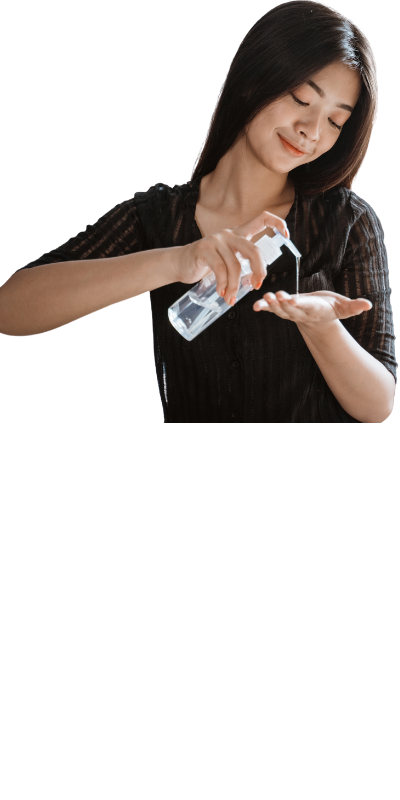
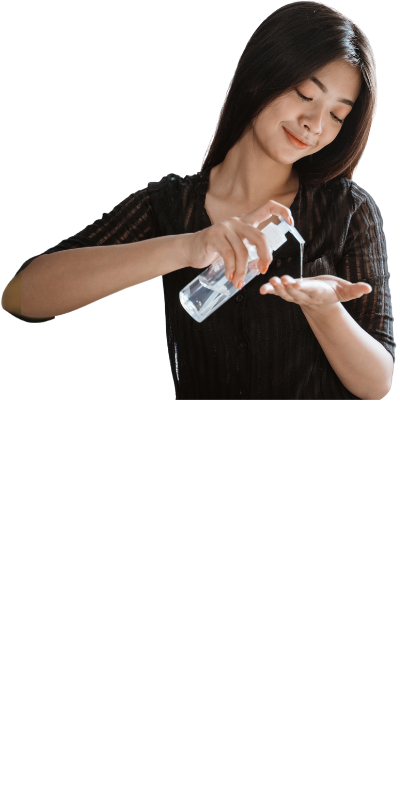
version13

Changed region(s): [[0.0, 0.0, 1.0, 0.5312], [0.6, 0.0, 0.75, 0.0625]]

diff --git a/.vscode/index.html b/.vscode/index.html
@@ -280,7 +280,7 @@
                     <img class="card-img-top">
                     <div class="card mx-auto border-0">
                         <div class="cover">
-                            <img src="productos/personas/14.png" alt="Alcohol">
+                            <img src="productos/personas/18.png" alt="Alcohol">
                             <div class="img__back"></div>
                         </div>
                         <div class="description">
